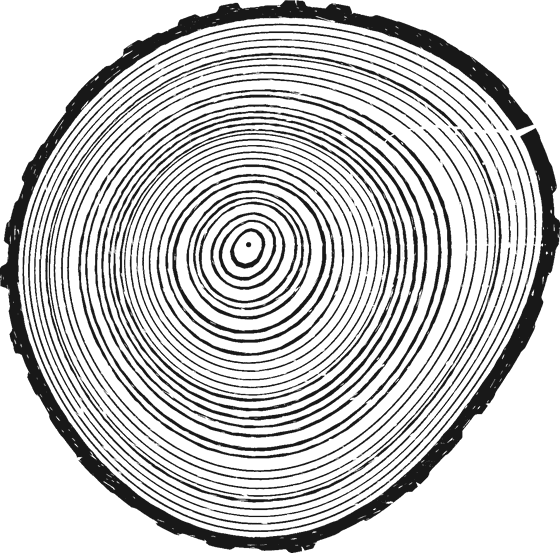
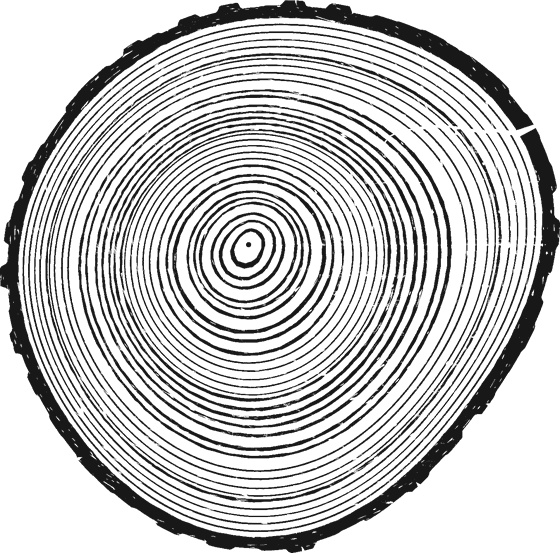
Well Rounded: each wood answers the same loop its own way
The olive keeps every crooked day: the hand's line hardly smoothed into
its ring, hardly evened out after. The conifers print an unhurried day
dark: each ring's latewood widens and darkens with how calmly it was
drawn. Each wood's temperament is said in pencil beneath its slice when
choosing.

Claude-Session: https://claude.ai/code/session_01WhGxUDQ2nhT1B8pKnZrdq5

diff --git a/src/rings/press.ts b/src/rings/press.ts
@@ -231,9 +231,35 @@ const SPEC: Record<Kind, {
   pine: { family: 'conifer', bark: PLATES, barkCss: [3.5, 0.055, 11], amp: 1, width: 1, even: 1, line: 0.7, tone: 1, resin: true },
   redwood: { family: 'conifer', bark: { lumps: 220, plate: false, mean: 4, deep: [0.3, 0.6, 1], wide: 0.7 }, barkCss: [5, 0.08, 16], amp: 0.7, width: 1.3, even: 1.2, line: 0.6, tone: 0.9, resin: false },
   bristlecone: { family: 'conifer', bark: { ...PLATES, lumps: 60, mean: 15 }, barkCss: [2, 0.03, 6], amp: 1.8, width: 0.45, even: 0.3, line: 0.75, tone: 1, resin: true },
-  olive: { family: 'diffuse', bark: { lumps: 160, plate: false, mean: 11, deep: [0.1, 0.4, 1], wide: 1 }, barkCss: [1.5, 0.02, 4], amp: 2.2, width: 0.8, even: 0.4, line: 0.45, tone: 0.85, resin: false },
+  olive: { family: 'diffuse', bark: { lumps: 160, plate: false, mean: 11, deep: [0.1, 0.4, 1], wide: 1 }, barkCss: [1.5, 0.02, 4], amp: 2.2, width: 0.8, even: 0.15, line: 0.45, tone: 0.85, resin: false },
 };
 const KINDS = Object.keys(SPEC) as Kind[];
+/**
+ * Each wood's temperament, said in pencil beneath it when choosing: how it answers the same loop. The
+ * olive keeps every crooked day (its line barely smoothed, hardly evened out); the conifers' latewood
+ * darkens and widens with an unhurried hand (the ring's calm, as drawn: see `calmOf`).
+ */
+const TEMPER: Record<Kind, string> = {
+  oak: 'patient; evens out a crooked day',
+  ash: 'open-grained, quick to grow',
+  cherry: 'fine and close',
+  maple: 'fine, pale and even',
+  birch: 'light, quick, and faint',
+  pine: 'slow days print dark',
+  redwood: 'broad and calm; slow days print dark',
+  bristlecone: 'slow, enduring; outlives its own bark',
+  olive: 'keeps every crooked day',
+};
+/** How smoothly the hand's line becomes the ring (the low-pass round it): the olive's, hardly at all. */
+const SMOOTH: Partial<Record<Kind, number>> = { olive: (3.5 * Math.PI) / 180 };
+/** How calmly ring i was drawn, 0 hurried to 1 unhurried (its tone, as the tree kept it). */
+function calmOf(i: number): number {
+  const t = tree.tones[i];
+  if (!t || !t.length) return 0.5;
+  let s = 0;
+  for (let j = 0; j < t.length; j++) s += t[j];
+  return s / t.length;
+}
 const fam = () => SPEC[kind].family;
 const asKind = (k: unknown): Kind | null => (KINDS.includes(k as Kind) ? (k as Kind) : null);
 let kind: Kind = asKind(params.get('tree')) ?? 'oak';
@@ -1102,11 +1128,12 @@ function drawSeedChoice(v: View, t: number): void {
     } else drawSeedOf(sp, x, v.cy, 1, 2);
     g.fillStyle = 'rgba(92,88,84,0.85)'; g.textAlign = 'center'; g.textBaseline = 'middle';
     g.font = `italic ${16 * px}px Newsreader, "Iowan Old Style", Georgia, serif`; g.fillText(sp, x, v.cy + D / 2 + 34 * px);
+    g.fillStyle = 'rgba(92,88,84,0.6)'; g.font = `italic ${13 * px}px Newsreader, "Iowan Old Style", Georgia, serif`; g.fillText(TEMPER[sp], x, v.cy + D / 2 + 56 * px);
     g.restore();
   }
   // Where it is among them: a row of small dots, this one inked.
   g.save(); g.globalAlpha = k;
-  const y = v.cy + D / 2 + 64 * px, gap = 11 * px;
+  const y = v.cy + D / 2 + 84 * px, gap = 11 * px;
   for (let i = 0; i < SEEDS.length; i++) {
     g.fillStyle = i === choice ? 'rgba(60,52,46,0.8)' : 'rgba(92,88,84,0.28)';
     g.beginPath(); g.arc(v.cx + (i - (SEEDS.length - 1) / 2) * gap, y, (i === choice ? 2.6 : 2) * px, 0, TAU); g.fill();
@@ -1652,7 +1679,9 @@ function drawPrint(v: View): void {
       const share = !ring && !conifer ? Math.min(0.5, Math.max(0.1, 1.5 / Math.max(1, w)))
         : conifer ? Math.min(kind === 'redwood' ? 0.35 : 0.5, Math.max(kind === 'redwood' ? 0.1 : 0.16, 0.9 / Math.max(1, w) + (kind === 'redwood' ? 0.08 : 0.14)))
         : Math.min(0.75, Math.max(0.45, 1.1 / Math.max(1, w) + 0.45));
-      const bandIn = (a: number) => outer(a) - share * (outer(a) - inner(a));
+      // (A conifer's latewood: wider and darker for an unhurried day, thin and pale for a hurried one.)
+      const calm = conifer ? calmOf(i) : 0.5, cshare = conifer ? Math.min(0.85, share * (0.35 + 1.3 * calm)) : share;
+      const bandIn = (a: number) => outer(a) - cshare * (outer(a) - inner(a));
       const tone = (1 - 0.16 * smooth((i - (n - 9)) / 8) * smooth((n - 12) / 8)) * sp.tone, fine = w < 6, mr = meanR(i);
       // The rays crossing this ring: the broad ones always (hairlines); among fine rings, the fine ones too
       // (oak's mosaic); never two closer than 5 px round it.
@@ -1676,7 +1705,7 @@ function drawPrint(v: View): void {
         }
         g.closePath();
         // (The ink a little starved now and then.)
-        g.fillStyle = ink((0.8 + 0.2 * h1(seed * 0.37)) * tone); g.fill();
+        g.fillStyle = ink((0.8 + 0.2 * h1(seed * 0.37)) * tone * (conifer ? 0.5 + 0.5 * calm : 1)); g.fill();
       };
       if (live.length < 2) brick(0, TAU, i * 101);
       else for (let j = 0; j < live.length; j++) {
@@ -2475,6 +2504,8 @@ const SLOW = Number(params.get('slow')) || 1, OPEN = 1.8 * SLOW, BLOOM = 1.1 * S
 
 function frame(): void {
   const t = clock(), dt = 1 / 60;
+  // (The wood's own way with the hand's line.)
+  if (GROWN) { const sm = SMOOTH[kind] ?? DAILY.smooth; if (tree.k.smooth !== sm) (tree.k as { smooth: number }).smooth = sm; }
   if (farTo) {
     const p = smooth((t - farTo.at) / 1.1);
     far = farTo.from + (farTo.to - farTo.from) * p; farPull = far;

diff --git a/README.md b/README.md
@@ -409,6 +409,8 @@ Locally, run `npm run dev` and open `/volcano.html`. The simulation (`src/volcan
 
 **Grown from a seed, true to a tree's scale** (the practice, printed; `GROWN` in `press.ts`; since October 12). Nothing is on the sheet at first: *Tap anywhere to plant a seed*, and the tree grows from there (kept with it, as `at`). The loop is drawn at the hand's size, wherever is comfortable round the slice: how loose it is sets the year's width (46 CSS px out from the bark a steady year; from 0.15 to 3.2 of one), its wobble how the year swells and thins round the tree; once closed, the wet loop draws in onto the slice as that year. The slice is shown true to a tree's scale (0.6 CSS px to the mm) until it fills its room, then fitted to it, so a year is a thin ring and the slice grows slowly, denser year on year, and is looked into closely (a pinch, up to the point a year is some 12 px across). No fisheye. The tree grows its own way as well as the hand's (`growth`): a few broad swells (a lean, a lobe, a flat side) each waxing, waning and turning over months, the lean holding its side longest, and only a gentle evening-up (`evenUp`, in proportion to the radius), so the heart comes to sit off the middle and the outline carries its history, never a fixed pattern. **Pressed:** the ink took or it didn't, the paper's tooth (some 0.12 mm) and the press's wandering pressure deciding where the block was lightly inked, so a pale tone prints as a scatter of ink, never grey; the saw's marks as faint arcs, seen looking close. **Checks:** from about the fortieth year the slice splits as it dries, a crack more every seventy or so (up to five), from the bark in toward the heart, wandering and jagged, widest at the bark, running deeper with the years. **The ink takes as it did on a real print:** how much ink each point took comes from two patches of a real woodcut, Munch's *Two Women on the Shore* (1898; Art Institute of Chicago, public domain): his sea's mottle and sparse specks, his field's grain and streaks (`munch-*-ink.png`, `scripts/wood/inktake.py`), so a solid black prints nearly even, as Vallotton's and Munch's do, and a thin inking breaks into grain and streaks, never a speckle of noise. **A year grows as a season does** (since October 12): once the loop is closed it stays where it was drawn and dries into the sheet, while on the slice the year grows out from the old bark over some seven seconds, quick at first and easing to a stop, the bark moving out ahead of the new wood (`drawGrowing`: the print as it was, and beyond the old bark the print as it is now, drawn a little smaller about the heart and coming to its own size); the years before never move. Room for it is made over a minute and a half, too slowly to see, the print pressed again each second as it goes, and nothing about the print changes when a year is added but the year itself (each run of years takes its scale from its first, the sapwood fades over eight years, the press's patterns are fixed to the sheet), so there's never a pop. A seedling is shown up to three times larger, the boost waning over its first weeks.
 
+**Each wood's temperament** (since October 14; `TEMPER`, `SMOOTH`, `calmOf` in `press.ts`). The gesture is the same for every tree; the wood answers it its own way, said in pencil beneath each slice when choosing. The olive keeps every crooked day: the hand's line is hardly smoothed into its ring (3.5° against 12°) and hardly evened out after. The conifers (pine, redwood, bristlecone) print an unhurried day dark: each ring's latewood band widens and darkens with how calmly the loop was drawn (the tone the tree already keeps per ring), so slow days and quick ones alternate as real latewood does with the seasons.
+
 **Choosing a wood** (since October 14; `drawSeedChoice` in `press.ts`, `src/rings/slices/`). A bare sheet shows one wood at a time: a slice of it as some two months of the practice make it (pressed by the app itself, `?demo=60`, through its print export), as large as the tree will be on the sheet, its name in pencil beneath and a row of dots for where it is among the nine. A finger swipes from one to the next, as a specimen book's pages are turned (arrow keys on a computer; a touch beside it turns too). Touched, it's chosen: the slice draws in, ring by ring, back to its heart, and is its seed (the engraved figure), and the first loop is drawn around that. The breath is no longer announced.
 
 **Steady, closer, and a new tree** (since October 14). From the first ring on, the bark is exactly the same size on the sheet every day (`BARK` of the room), so the day's loop is drawn in the same place every day; the room is made over three and a half seconds as a ring closes, never a minute and a half of creeping growth. Looking closer (a pinch), a loop begun outside the bark is still a ring; begun on the slice, a finger moves it about. The footer counts rings. In the grove, the next tree's ground is a faint pencil circle; touched, a new tree is planted (the finished one standing in the grove); said once, the first time there.
